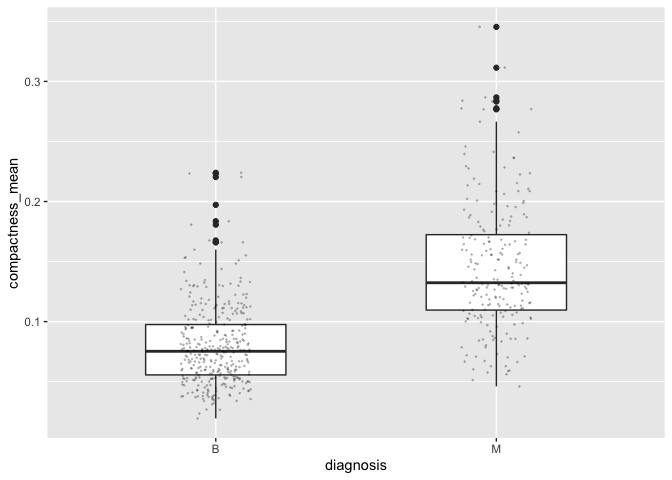
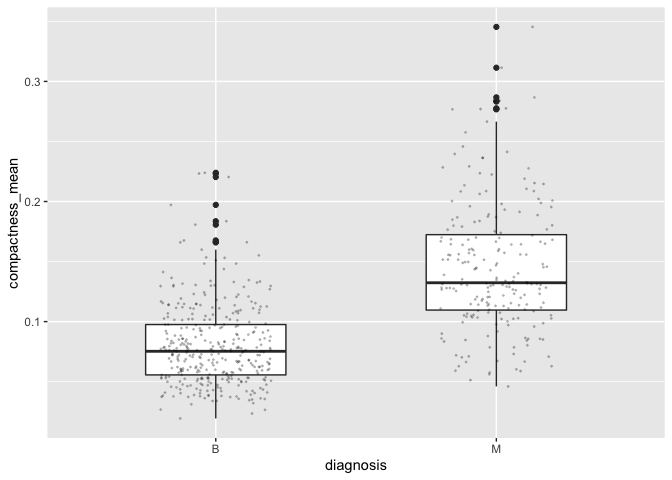
changed loading packages ggplot2 and dplyr to just loading the tidyverse package instead

diff --git a/mda-Milestone-1.md b/mda-Milestone-1.md
@@ -2,21 +2,10 @@ MDA-Milestone-1
 ================
 
 ``` r
-library(datateachr)
-library(ggplot2)
-library(dplyr)
+#loads needed packages to execute the code in this file and supresses startup messages
+suppressPackageStartupMessages(library(datateachr)) #allows for access to the datasets in this file.
+suppressPackageStartupMessages(library(tidyverse)) # loads packages needed for data visualization (ggplot2), and data manipulation (dplyr) that were used in this file.
 ```
-
-    ## 
-    ## Attaching package: 'dplyr'
-
-    ## The following objects are masked from 'package:stats':
-    ## 
-    ##     filter, lag
-
-    ## The following objects are masked from 'package:base':
-    ## 
-    ##     intersect, setdiff, setequal, union
 
 # Task 1
 
@@ -30,16 +19,17 @@ library(dplyr)
 ### Task 1.2
 
 ``` r
-#Exploring datasets of interest. For each dataset, the below code provides class type, number of rows, number of columns, variable names, and provides information on how data is provided (ie. numeric or characters)
+#Exploring datasets of interest. For each dataset the below code provides class type, number of rows, number of columns, variable names, and provides information on how data is provided (ie. numeric or characters). 
 
-#cancer_sample
-class(cancer_sample)
+#cancer_sample class type
+class(cancer_sample) 
 ```
 
     ## [1] "spec_tbl_df" "tbl_df"      "tbl"         "data.frame"
 
 ``` r
-glimpse(cancer_sample)
+#cancer_sample information on rows, columns, variable, and details on type of data (numeric or characters)
+glimpse(cancer_sample) 
 ```
 
     ## Rows: 569
@@ -78,13 +68,14 @@ glimpse(cancer_sample)
     ## $ fractal_dimension_worst <dbl> 0.11890, 0.08902, 0.08758, 0.17300, 0.07678, 0…
 
 ``` r
-#parking_meters
-class(parking_meters)
+#parking_meters class type
+class(parking_meters) 
 ```
 
     ## [1] "tbl_df"     "tbl"        "data.frame"
 
 ``` r
+#parking_meters information on rows, columns, variable, and details on type of data (numeric or characters)
 glimpse(parking_meters)
 ```
 
@@ -114,13 +105,14 @@ glimpse(parking_meters)
     ## $ meter_id       <chr> "670805", "471405", "C80145", "D03704", "301023", "5913…
 
 ``` r
-#steam_games
-class(steam_games)
+#steam_games class type
+class(steam_games) 
 ```
 
     ## [1] "spec_tbl_df" "tbl_df"      "tbl"         "data.frame"
 
 ``` r
+#steam_games information on rows, columns, variable, and details on type of data (numeric or characters)
 glimpse(steam_games)
 ```
 
@@ -149,13 +141,14 @@ glimpse(steam_games)
     ## $ discount_price           <dbl> 14.99, NA, NA, NA, NA, 35.18, 70.42, 17.58, N…
 
 ``` r
-#vancouver_trees
-class(vancouver_trees)
+#vancouver_trees class type
+class(vancouver_trees) 
 ```
 
     ## [1] "tbl_df"     "tbl"        "data.frame"
 
 ``` r
+#vancouver_trees information on rows, columns, variable, and details on type of data (numeric or characters)
 glimpse(vancouver_trees)
 ```
 
@@ -196,20 +189,24 @@ interesting to see if there are any correlations between different
 traits of the tumor (ie.mean tumor compactness and mean tumor area).
 This could be done by creating a scatter plot and adding a trendline. In
 terms of the steam\_games dataset, it could be interesting to see if the
-genre of a game is related to the sale price, or if theres any
+genre of a game is related to the sale price, or if there is any
 relationship between genre and mature content.
 
 ### Task 1.4
 
-The research question I would ask for the cancer\_sample dataset would
-be - Are there any correlations that can be found between the different
-traits of a tumor, and do these traits relate to the diagnosis?
+The research question I would ask for the *cancer\_sample* dataset would
+be:
 
-The research question I would ask for the steam\_games dataset would be
-- Are there any correlations between the maturity rating and genre?
+-   Are there any correlations that can be found between the different
+    traits of a tumor, and do these traits relate to the diagnosis?
 
-I’ve decided to work with the cancer\_sample dataset for the remainder
-of this milestone
+The research question I would ask for the *steam\_games* dataset would
+be:
+
+-   Are there any correlations between the maturity rating and genre?
+
+I’ve decided to work with the **cancer\_sample** dataset for the
+remainder of this milestone
 
 # Task 2
 
@@ -221,24 +218,27 @@ of this milestone
 #selects cancer_sample dataset and produces a graph with area_mean on the x-axis and perimeter_mean on the y-axis.
 cancer_sample %>%
   ggplot(aes(area_mean,perimeter_mean)) +
+  
 #plots the points for the above two vaiables, along with added a colour to the points to differentiate between the diagnosis of the tumor. An alpha of 0.2 was used to be able to see areas of overlap.
   geom_point(aes(colour=diagnosis), alpha=0.2) +
+  
 #sets the origin of the graph to 0,0 and ensures all points are included in the plot.
   expand_limits(x = 0, y = 0) +
   scale_x_continuous(expand = c(0, 0), limits = c(0, max(cancer_sample$area_mean)+100)) + 
   scale_y_continuous(expand = c(0, 0), limits = c(0, max(cancer_sample$perimeter_mean)+10))
 ```
 
-![](mda-Milestone-1_files/figure-gfm/unnamed-chunk-3-1.png)<!-- --> I
-decided to do this exercise because it would be a great way to visually
-see any relationships that may exist between two different variables. In
-this case I looked at the mean area and mean perimeter of the tumors. As
-you can see in the graph, there appears to be a positive relationship
-between these two variables. I also added an aesthetic function to see
-the distribution of thes points in regards to the diagnoses of these
-tumors. Both diagnoses appear to share this positive relationship
-between tumor area and perimeter. Additionally, benign tumors appear to
-typically be smaller in area and perimeter.
+![](mda-Milestone-1_files/figure-gfm/unnamed-chunk-3-1.png)<!-- -->
+
+I decided to do this exercise because it would be a great way to
+visually see any relationships that may exist between two different
+variables. In this case I looked at the mean area and mean perimeter of
+the tumors. As you can see in the graph, there appears to be a positive
+relationship between these two variables. I also added an aesthetic
+function to see the distribution of thes points in regards to the
+diagnoses of these tumors. Both diagnoses appear to share this positive
+relationship between tumor area and perimeter. Additionally, benign
+tumors appear to typically be smaller in area and perimeter.
 
 ##### 2.1.6
 
@@ -251,11 +251,12 @@ cancer_sample %>%
   geom_boxplot(width = 0.5) +
   
 #adds the individuals data points, makes the points' transparency lower and smaller, and shifts the points horizontally while keeping the vertical position the same.
-  geom_point(alpha = 0.2, size = 0.2, position = position_dodge2(w = 0.25))
+  geom_jitter(width = 0.2, size = 0.3, alpha = 0.2)
 ```
 
-![](mda-Milestone-1_files/figure-gfm/unnamed-chunk-4-1.png)<!-- --> I
-decided to do this exercise because it would allow for determining a
+![](mda-Milestone-1_files/figure-gfm/unnamed-chunk-4-1.png)<!-- -->
+
+I decided to do this exercise because it would allow for determining a
 potential relationship between either diagnosis with any variable. In
 this case it is comparing the compactness of the tumors between benign
 and malignant tumors. This graph clearly shows that malignant tumors
@@ -303,12 +304,13 @@ cancer_sample %>%
   geom_density(aes(fill = diagnosis), alpha = 0.3) +
 #set origin of graph to 0,0
   expand_limits(x = 0, y = 0) +
-#relablled y-axis from y, to density
+#relablled y-axis from y, to density.
   ylab(label = "density")
 ```
 
-![](mda-Milestone-1_files/figure-gfm/unnamed-chunk-6-1.png)<!-- --> I
-chose this exercise because I wanted to further look at potential
+![](mda-Milestone-1_files/figure-gfm/unnamed-chunk-6-1.png)<!-- -->
+
+I chose this exercise because I wanted to further look at potential
 differences between the two possible diagnoses (not including the signal
 NA diagnosis). This graphs helps to visually see the relationship
 between the area of tumors between benign and malignant diagnoses. It
@@ -317,3 +319,20 @@ whereas benign tumors seem to be within a smaller range. Additionally,
 malignant tumors appear to usually take up a larger area.
 
 # Task 3
+
+### 4 Research Questions:
+
+1.  What relationship exists (if any) between the symmetry of a tumor
+    and texture of a tumor?
+2.  What is the relationship between tumor diagnosis and tumor
+    variables?
+3.  Is there a relationship between the area and perimeter of a tumor in
+    regards to tumor diagnosis?
+4.  Is there a relationship between the tumor’s fractal dimension and
+    compactness?
+
+### Additional Comments
+
+I would require more information on the dataset. Such as what measuring
+units are the variable using. Also, what do the variables ending in
+’\_se’ and ’\_worst’ mean?
